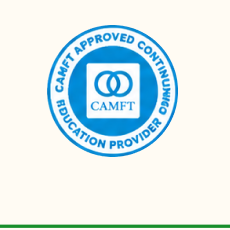
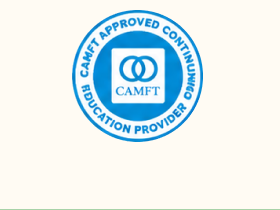
Fix certificate clipping: drop fixed aspect ratio, recrop seal and signature.

Changed region(s): [[0.1826, 0.0286, 0.7913, 0.6857], [0.0, 0.9714, 1.0, 1.0]]

diff --git a/styles.css b/styles.css
@@ -670,21 +670,23 @@ legend{font-weight:600;padding:0;margin-bottom:20px;font-size:16px;line-height:1
 .learner-page .btn.primary,.learner-page .btn.secondary{min-height:60px;font-size:19px;padding:16px 32px}
 .learner-page legend{font-size:18px}
 .learner-page .eval-named-steps span{font-size:15px;padding:10px 14px}
-.certificate-frame{background:#eef3f6;padding:12px;border-radius:12px}
-.certificate-document{width:100%;max-width:980px;margin:0 auto}
+.certificate-frame{background:#eef3f6;padding:12px;border-radius:12px;overflow:visible}
+#certificate-render{overflow:visible}
+.certificate-document{width:100%;max-width:980px;margin:0 auto;overflow:visible}
 .cert-sheet{
   background:#fff;
   border:8px solid #7699bd;
-  padding:clamp(20px,3vw,36px) clamp(22px,3.5vw,44px) clamp(18px,2.5vw,28px);
+  padding:clamp(20px,3vw,36px) clamp(22px,3.5vw,44px) clamp(22px,2.5vw,32px);
   color:#202d25;
   font-family:Georgia,"Times New Roman",serif;
   position:relative;
-  aspect-ratio:1666/1162;
   box-sizing:border-box;
   display:flex;
   flex-direction:column;
   align-items:center;
   text-align:center;
+  overflow:visible;
+  min-height:0;
 }
 .cert-header{margin:0 0 8px}
 .cert-logo{width:min(520px,88%);height:auto;display:block;margin:0 auto}
@@ -695,23 +697,49 @@ legend{font-weight:600;padding:0;margin-bottom:20px;font-size:16px;line-height:1
 .cert-intro strong{font-weight:700}
 .cert-course{font-size:clamp(20px,2.4vw,30px);font-weight:700;margin:0 0 8px;line-height:1.25;max-width:92%}
 .cert-presenters,.cert-meta{font-size:clamp(16px,1.75vw,22px);margin:0 0 6px;line-height:1.35;max-width:92%}
+.cert-body-spacer{flex:1 1 auto;min-height:12px;width:100%}
 .cert-lower{
   width:100%;
-  margin-top:auto;
+  margin-top:clamp(16px,2vw,28px);
   display:grid;
-  grid-template-columns:minmax(0,1.15fr) minmax(220px,.85fr);
-  gap:clamp(12px,2vw,24px);
+  grid-template-columns:minmax(0,1fr) minmax(240px,320px);
+  gap:clamp(16px,2.5vw,28px);
   align-items:end;
   text-align:left;
   padding-top:clamp(10px,1.5vw,18px);
+  overflow:visible;
 }
 .cert-accreditation p{font-size:clamp(11px,1.05vw,14px);line-height:1.45;margin:0 0 10px;font-family:Georgia,serif}
 .cert-accreditation-em{font-style:italic}
-.cert-official{display:flex;flex-direction:column;align-items:center;justify-content:flex-end;gap:8px}
-.cert-seal{width:min(150px,36vw);height:auto}
-.cert-sign-block{display:flex;flex-direction:column;align-items:center;gap:4px}
-.cert-sign-label{font-family:Inter,Arial,sans-serif;font-size:13px;color:#202d25}
-.cert-sign{width:min(220px,50vw);height:auto}
+.cert-official{
+  display:flex;
+  flex-direction:column;
+  align-items:center;
+  justify-content:flex-end;
+  gap:10px;
+  min-width:240px;
+  overflow:visible;
+  padding-bottom:4px;
+}
+.cert-seal{width:min(168px,100%);height:auto;display:block;object-fit:contain}
+.cert-sign-block{
+  display:flex;
+  flex-direction:column;
+  align-items:center;
+  gap:6px;
+  width:100%;
+  max-width:260px;
+  overflow:visible;
+}
+.cert-sign-label{font-family:Inter,Arial,sans-serif;font-size:14px;color:#202d25}
+.cert-sign{
+  width:100%;
+  max-width:260px;
+  height:auto;
+  display:block;
+  object-fit:contain;
+  object-position:center top;
+}
 .cert-footer{
   width:100%;
   margin-top:10px;

diff --git a/src/certificate.js b/src/certificate.js
@@ -71,6 +71,7 @@ export function buildCertificateMarkup(certificate, template) {
         <p class="cert-course">${courseName}</p>
         <p class="cert-presenters">${presenterText}</p>
         ${scheduleBlock}
+        <div class="cert-body-spacer" aria-hidden="true"></div>
         <div class="cert-lower">
           <div class="cert-accreditation">
             <p>Lifespan Learning Institute is approved by the California Association of Marriage and Family Therapists to sponsor continuing education for LMFTs, LCSWs, LPCCs, &amp; LEPs. Lifespan Learning Institute maintains responsibility for this program/course and its content. (Provider # 050085)</p>
@@ -92,17 +93,23 @@ export function buildCertificateMarkup(certificate, template) {
 
 async function captureCertificateNode(node) {
   const { default: html2canvas } = await import('https://cdn.jsdelivr.net/npm/html2canvas@1.4.1/+esm');
-  await Promise.all([...node.querySelectorAll('img')].map((img) => (
+  const sheet = node.querySelector('.cert-sheet') || node;
+  await Promise.all([...sheet.querySelectorAll('img')].map((img) => (
     img.complete ? Promise.resolve() : new Promise((resolve) => {
       img.onload = resolve;
       img.onerror = resolve;
     })
   )));
-  return html2canvas(node, {
-    scale: Math.max(2, window.devicePixelRatio || 2),
+  const scale = Math.max(2, window.devicePixelRatio || 2);
+  return html2canvas(sheet, {
+    scale,
     backgroundColor: '#ffffff',
     useCORS: true,
-    logging: false
+    logging: false,
+    width: sheet.scrollWidth,
+    height: sheet.scrollHeight,
+    windowWidth: sheet.scrollWidth,
+    windowHeight: sheet.scrollHeight
   });
 }
 
